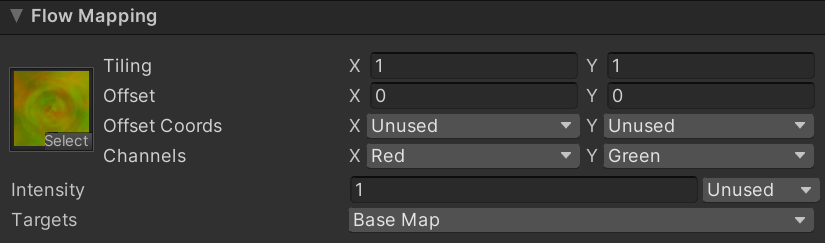
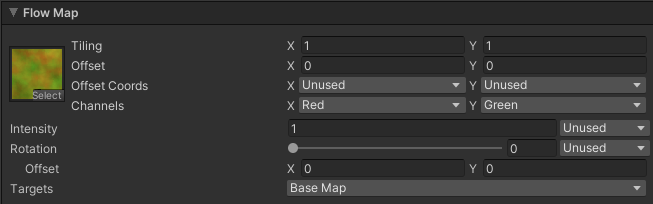
READMEに回転を追加

diff --git a/README.md b/README.md
@@ -653,6 +653,19 @@ If you specify Flip Book as the Color Mode, you need to set <a href="https://doc
 And if you specify Flip Book Blending, you need to set <a href="https://docs.unity3d.com/2020.3/Documentation/Manual/class-Texture3D.html">Texture3D</a>.
 </p>
 </td></tr>
+<tr><td colspan="3"><b>Rotation</b></td><td>
+<p>
+<b>This property is visible only when the Color Mode is set to Single Texture, Flip Book, or Flip Book Blending.</b>
+</p>
+<p>
+Set the amount of rotation of the Tint Map.
+</p>
+</td></tr>
+<tr><td></td><td colspan=2><b>Offset</b></td><td>
+<p>
+Shifts the center coordinate of rotation.
+</p>
+</td></tr>
 <tr><td colspan=3><b>Flip-Book Progress</b></td><td>
 <p>
 <b>This property is visible only when the Color Mode is set to Flip Book or Flip Book Blending.</b>
@@ -701,7 +714,7 @@ Select the Custom Coord channel for random value input. This should correspond t
 You can use the Flow Map to distort the Base Map to the specified directions.
 
 <p align="center">
-  <img width="60%" src="https://user-images.githubusercontent.com/106138524/173483428-e6027ef4-a61e-4308-a90a-542bf75b0eaf.png" alt="Flow Map"><br>
+  <img width="60%" src="Documentation~/Images/flow_mapping.png" alt="Flow Map"><br>
   <font color="grey">Flow Map</font>
 </p>
 
@@ -721,6 +734,16 @@ Sets the Flow Map. The specifications are as follows.
     <li>The smaller the value from 0.5, the more the UV value shifts in the negative direction, and vice versa.</li>
 </ul>
 Note that you need to uncheck sRGB Color in the texture import setting because the pixels will be used as values, not colors.
+</p>
+</td></tr>
+<tr><td colspan="3"><b>Rotation</b></td><td>
+<p>
+Set the amount of rotation of the Flow Map.
+</p>
+</td></tr>
+<tr><td></td><td colspan=2><b>Offset</b></td><td>
+<p>
+Shifts the center coordinate of rotation.
 </p>
 </td></tr>
 <tr><td colspan=3><b>Intensity</b></td><td>
@@ -940,6 +963,16 @@ And if you specify Flip Book Blending, you need to set <a href="https://docs.uni
 Note that you need to uncheck sRGB Color in the texture import setting because the pixels will be used as values, not colors.
 </p>
 </td></tr>
+<tr><td colspan="3"><b>Rotation</b></td><td>
+<p>
+Set the amount of rotation of the Alpha Transition Map.
+</p>
+</td></tr>
+<tr><td></td><td colspan=2><b>Offset</b></td><td>
+<p>
+Shifts the center coordinate of rotation.
+</p>
+</td></tr>
 <tr><td colspan="3"><b>Flip-Book Progress</b></td><td>
 <p>
 <b>This property is visible only when the Map Mode is set to Flip Book or Flip Book Blending.</b>
@@ -991,6 +1024,20 @@ You can specify how to composite the second texture from the following options.
 <li>Multiply</li>
 </ul>
 </p>
+</td></tr>
+<tr><td colspan="3"><b>2nd Texture Rotation</b></td><td>
+<p>
+<b>This property is visible only when 2nd Texture Blend Mode is set to Average or Multiply.</b>
+</p>
+<p>
+Set the amount of rotation of the second Alpha Transition Map.
+</p>
+</td></tr>
+<tr><td></td><td colspan=2><b>Offset</b></td><td>
+<p>
+Shifts the center coordinate of rotation.
+</p>
+</td></tr>
 <tr><td colspan="3"><b>Edge Sharpness</b></td><td>
 <p>
 <b>This property is visible only when the Mode is set to Dissolve.</b>
@@ -1006,7 +1053,7 @@ Sets the sharpness of the edge.
 The Emission control how the particles are glowing.
 
 <p align="center">
-  <img width="60%" src="https://user-images.githubusercontent.com/106138524/173484557-4f2504af-c93a-4f5a-85b0-ac07b8e0d6fe.png" alt="Emission"><br>
+  <img width="60%" src="Documentation~/Images/emission.png" alt="Emission"><br>
   <font color="grey">Emission</font>
 </p>
 
@@ -1063,6 +1110,19 @@ And if you specify Flip Book Blending, you need to set <a href="https://docs.uni
 </p>
 <p>
 Note that you need to uncheck sRGB Color in the texture import setting because the pixels will be used as values, not colors.
+</p>
+</td></tr>
+<tr><td colspan="3"><b>Rotation</b></td><td>
+<p>
+<b>This property is visible only when the Mode is set to By Texture.</b>
+</p>
+<p>
+Set the amount of rotation of the Emission Map.
+</p>
+</td></tr>
+<tr><td></td><td colspan=2><b>Offset</b></td><td>
+<p>
+Shifts the center coordinate of rotation.
 </p>
 </td></tr>
 <tr><td colspan="3"><b>Flip-Book Progress</b></td><td>
@@ -1502,6 +1562,16 @@ Sets the Flow Map. The specifications are as follows.
 Note that you need to uncheck sRGB Color in the texture import setting because the pixels will be used as values, not colors.
 </p>
 </td></tr>
+<tr><td colspan="3"><b>Rotation</b></td><td>
+<p>
+Set the amount of rotation of the Flow Map.
+</p>
+</td></tr>
+<tr><td></td><td colspan=2><b>Offset</b></td><td>
+<p>
+Shifts the center coordinate of rotation.
+</p>
+</td></tr>
 <tr><td colspan=3><b>Intensity</b></td><td>
 <p>
 Sets the Flow Map intensity.
@@ -1514,7 +1584,7 @@ Sets the Flow Map intensity.
 Alpha Transition controls the alpha value using a texture.
 
 <p align="center">
-  <img width="60%" src="https://user-images.githubusercontent.com/106138524/173484691-f2ec4b11-cf2f-404d-890f-3331a45bbf5a.png" alt="Alpha Transition"><br>
+  <img width="60%" src="Documentation~/Images/distortion_alpha_transition.png" alt="Alpha Transition"><br>
   <font color="grey">Alpha Transition</font>
 </p>
 
@@ -1546,6 +1616,16 @@ Sets the Alpha Transition Map. The specifications are as follows.
 </p>
 <p>
 Note that you need to uncheck sRGB Color in the texture import setting because the pixels will be used as values, not colors.
+</p>
+</td></tr>
+<tr><td colspan="3"><b>Rotation</b></td><td>
+<p>
+Set the amount of rotation of the Alpha Transition Map.
+</p>
+</td></tr>
+<tr><td></td><td colspan=2><b>Offset</b></td><td>
+<p>
+Shifts the center coordinate of rotation.
 </p>
 </td></tr>
 <tr><td colspan="3"><b>Progress</b></td><td>
